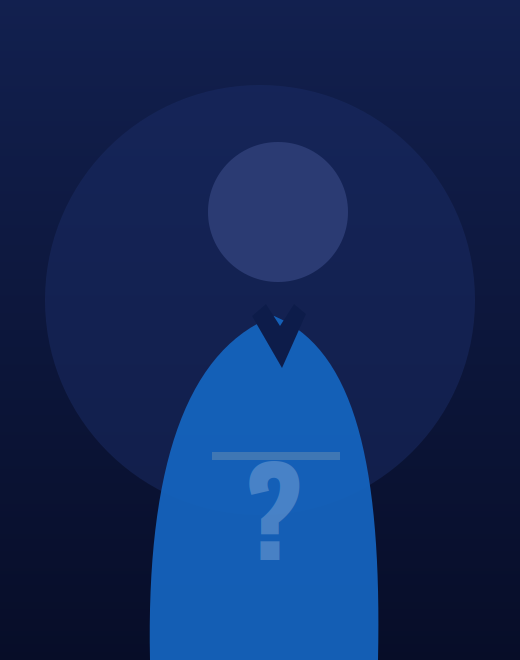
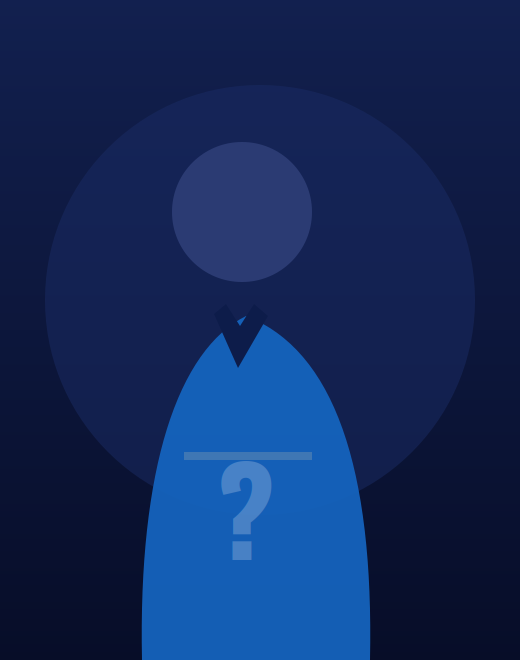
Add files via upload

diff --git a/mannschaft.html b/mannschaft.html
@@ -19,8 +19,12 @@ body{background:var(--navy-d);color:var(--paper);font-family:Oswald,system-ui,sa
  linear-gradient(180deg,#0b1540,#050b25 55%,#02050f)}
 .punkte{position:fixed;inset:0;z-index:-1;opacity:.5;pointer-events:none}
 .wrap{max-width:1240px;margin:0 auto;padding:0 20px 80px}
+.zurueck-oben{display:inline-flex;align-items:center;gap:8px;margin-top:22px;
+ color:var(--silver);text-decoration:none;font-size:12px;letter-spacing:.2em;
+ text-transform:uppercase;transition:color .25s}
+.zurueck-oben:hover{color:var(--gold-l)}
 
-header{padding:48px 0 30px;text-align:center;border-bottom:1px solid var(--line)}
+header{padding:26px 0 30px;text-align:center;border-bottom:1px solid var(--line)}
 .marke{font-size:11px;letter-spacing:.4em;color:var(--gold-l);font-weight:500;text-transform:uppercase}
 header h1{font-size:clamp(32px,8vw,72px);font-weight:700;letter-spacing:.02em;margin:10px 0 6px}
 header .ort{color:var(--silver);font-size:clamp(11px,2.6vw,14px);letter-spacing:.2em;text-transform:uppercase}
@@ -141,6 +145,8 @@ footer a{color:var(--gold-l);text-decoration:none;font-size:12px;letter-spacing:
 <circle cx="99.8%" cy="70.1%" r="0.9" fill="#7fa8d8" opacity="0.17"/></svg>
 
 <div class="wrap">
+  <a class="zurueck-oben" href="index.html">&#8592; Startseite</a>
+
   <header>
     <p class="marke">Sportfreunde 1989</p>
     <h1>Unsere Mannschaft</h1>
@@ -310,7 +316,7 @@ footer a{color:var(--gold-l);text-decoration:none;font-size:12px;letter-spacing:
 
   <p class="hinweis">Vorschau mit Platzhaltern. Am Rechner dreht sich die Figur beim
   Überfahren mit dem Zeiger, am Telefon durch <b>Antippen</b> der Karte.
-  Dafür braucht es <b>zwei Aufnahmen je Spieler</b>: frontal und etwa 30 Grad zur Seite
+  Dafür braucht es <b>zwei Aufnahmen je Spieler</b>: frontal und etwa 30 Grad nach links
   gedreht, Gesicht weiter zur Kamera. Hochformat 520 : 660, gleicher Hintergrund,
   gleiche Kamerahöhe, Ausschnitt bis zur Hüfte.</p>
 

diff --git a/index.html b/index.html
@@ -311,6 +311,20 @@
       .hero-cta { flex-direction:column; }
       .nav-logo span { display:none; }
     }
+
+    /* --- Nur ergänzt: Link zur Mannschaftsseite in der Kopfzeile auf Mobilgeräten.
+       Auf dem Desktop bleibt er ausgeblendet, dort steht er im Hauptmenü. --- */
+    .nav-mobil { display:none; }
+    @media(max-width:900px) {
+      .nav-mobil {
+        display:inline-block; margin-left:auto; margin-right:16px;
+        color:var(--gold); text-decoration:none; white-space:nowrap;
+        font-size:12px; letter-spacing:1.4px; text-transform:uppercase; font-weight:500;
+      }
+    }
+    @media(max-width:600px) {
+      .nav-mobil { font-size:11px; letter-spacing:1px; margin-right:12px; }
+    }
   </style>
 </head>
 <body>
@@ -327,6 +341,7 @@
       <li><a href="#news">Aktuelles</a></li>
       <li><a href="#contact">Kontakt</a></li>
     </ul>
+    <a href="mannschaft.html" class="nav-mobil">Mannschaft</a>
     <a href="#contact" class="btn-primary">Mitmachen</a>
   </nav>
 
